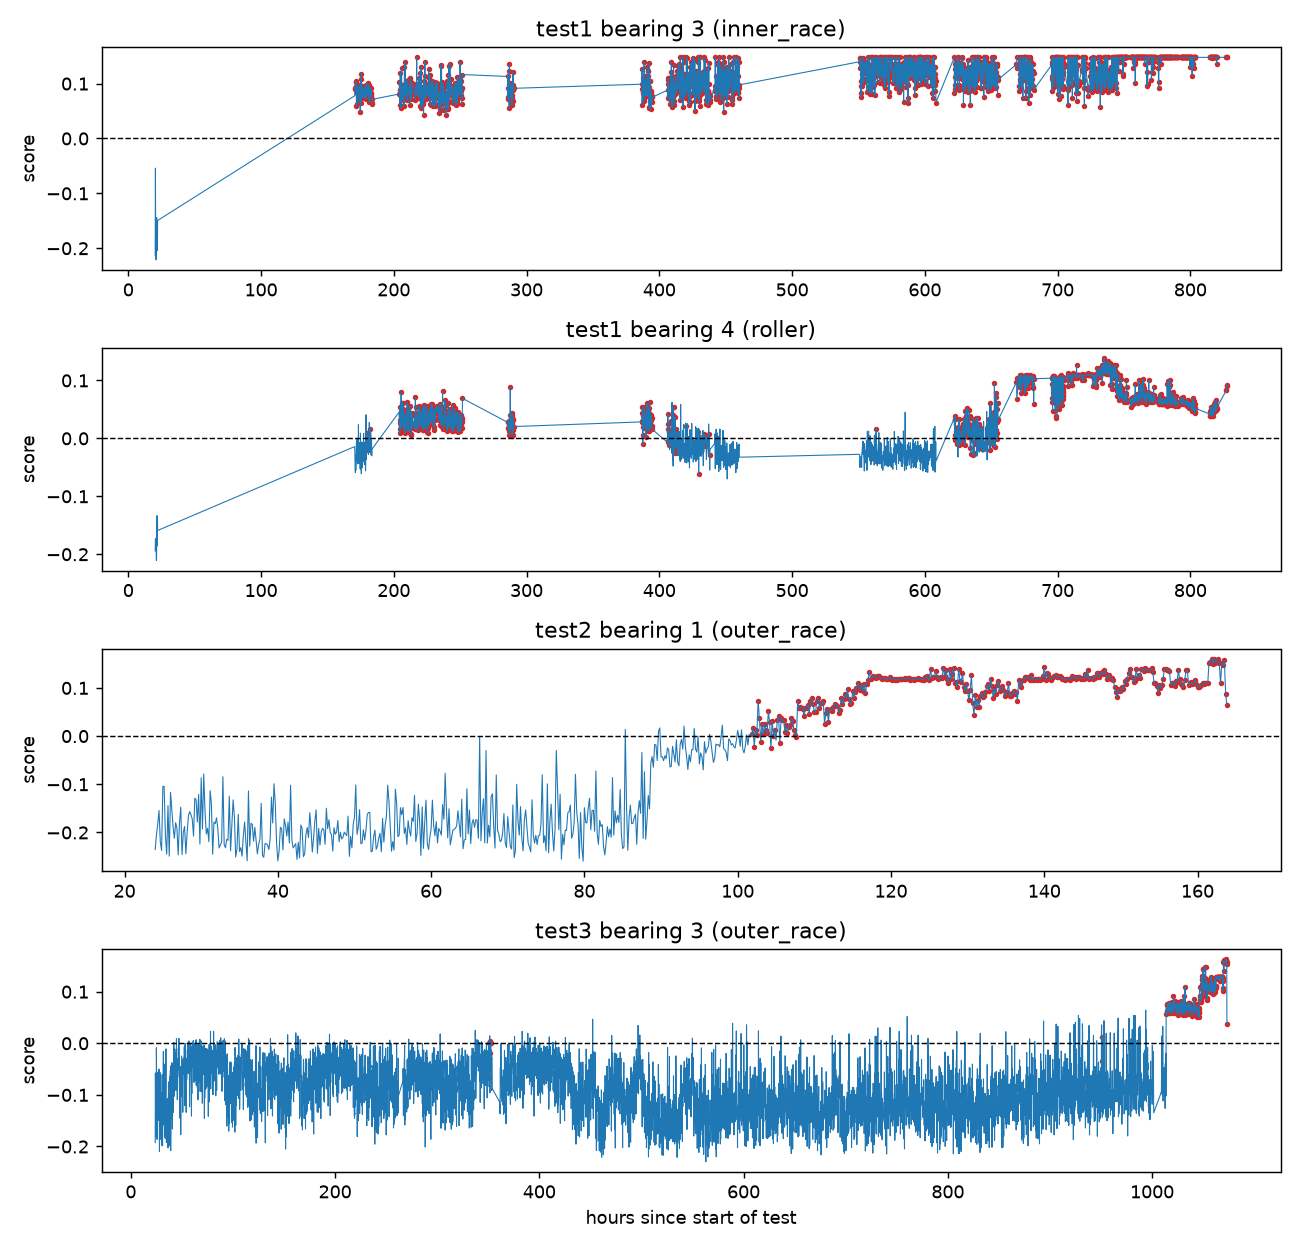
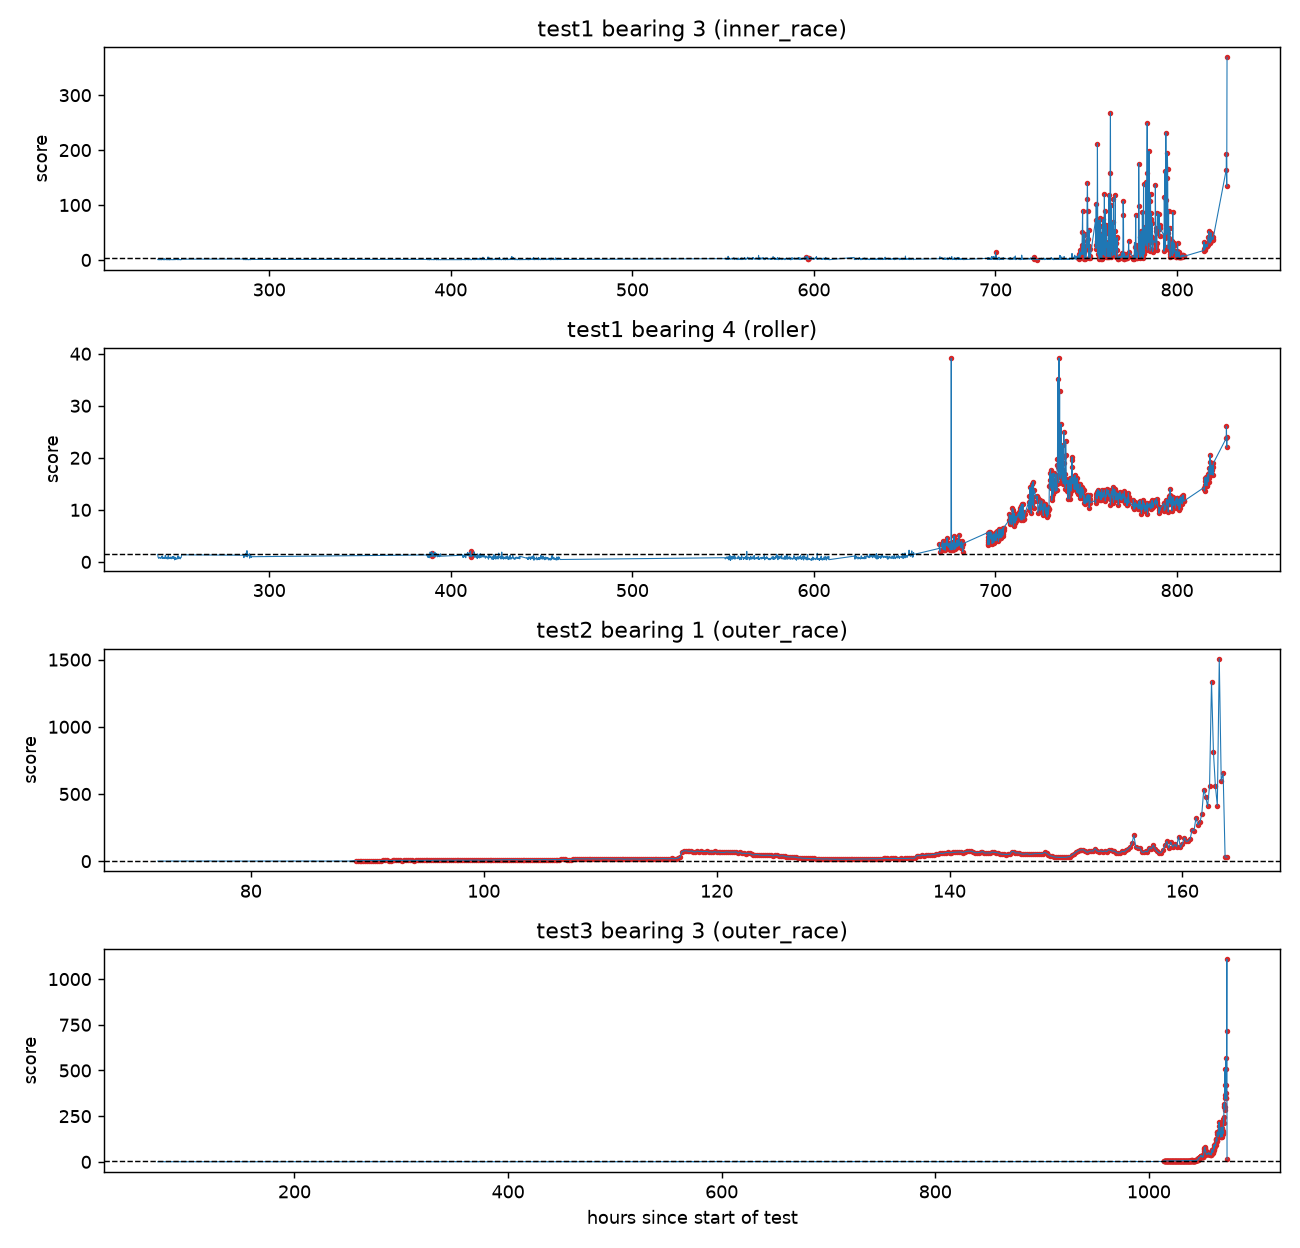
Derived the audit summary counts and plotted the headline IMS model

diff --git a/src/fabguard/audit.py b/src/fabguard/audit.py
@@ -152,13 +152,29 @@ def write_audit_artifacts(entries: Sequence[object], destination: Path) -> None:
         "listening_note": "copies are DC-centered and peak-normalized to 0.8 for safe comparison",
     }
     (destination / "summary.json").write_text(json.dumps(report, indent=2) + "\n", encoding="utf-8")
+    total = report["recordings"]
+    if report["vibration_usable"] == total and report["audio_usable"] == total:
+        quality = f"All {total} vibration and {total} audio channels passed"
+    else:
+        quality = (
+            f"{report['vibration_usable']} of {total} vibration and {report['audio_usable']} "
+            f"of {total} audio channels passed"
+        )
+    primary = frame[frame["cohort"] == Cohort.PRIMARY.value]
+    quarantined = frame[frame["cohort"] == Cohort.QUARANTINED_LOAD.value]
+    ids = sorted(int(bearing) for bearing in quarantined["bearing_id"].unique())
+    if len(ids) > 1 and ids == list(range(ids[0], ids[-1] + 1)):
+        quarantined_label = f"{ids[0]}–{ids[-1]}"
+    else:
+        quarantined_label = ", ".join(map(str, ids)) or "none"
     (destination / "README.md").write_text(
         "# UORED-VAFCLS v5 data audit\n\n"
-        f"Audited {report['recordings']} recordings from {report['bearings']} bearings. "
-        f"All {report['vibration_usable']} vibration and {report['audio_usable']} audio channels "
-        "passed the frozen technical checks. The primary cohort contains 45 recordings from "
-        "15 bearings; 15 recordings from bearings 11–15 remain in the separate load-confound "
-        "audit. No recording was excluded for being difficult to classify.\n\n"
+        f"Audited {total} recordings from {report['bearings']} bearings. "
+        f"{quality} the frozen technical checks. The primary cohort contains "
+        f"{len(primary)} recordings from {primary['bearing_id'].nunique()} bearings; "
+        f"{len(quarantined)} recordings from bearings "
+        f"{quarantined_label} remain in the separate "
+        "load-confound audit. No recording was excluded for being difficult to classify.\n\n"
         "The release encodes RPM and load as a scalar in the first CSV row followed by zero "
         "padding. `recording_quality.csv` reports the recovered scalar values. "
         "`confound_table.csv` makes the ball-fault load shift explicit. Plots and normalized "

diff --git a/src/fabguard/ims.py b/src/fabguard/ims.py
@@ -315,8 +315,8 @@ def _plot(scored: pd.DataFrame, path: Path) -> None:
         part = scored[
             (scored.test == test.name)
             & (scored.bearing == bearing)
-            & (scored.model_family == "isolation_forest")
-            & (scored.baseline_policy == "first_24h")
+            & (scored.model_family == "healthy_reference")
+            & (scored.baseline_policy == "first_72h")
         ]
         axis.plot(part.hours, part.anomaly_score, linewidth=0.6)
         axis.axhline(part.threshold.iloc[0], color="black", linestyle="--", linewidth=0.8)
